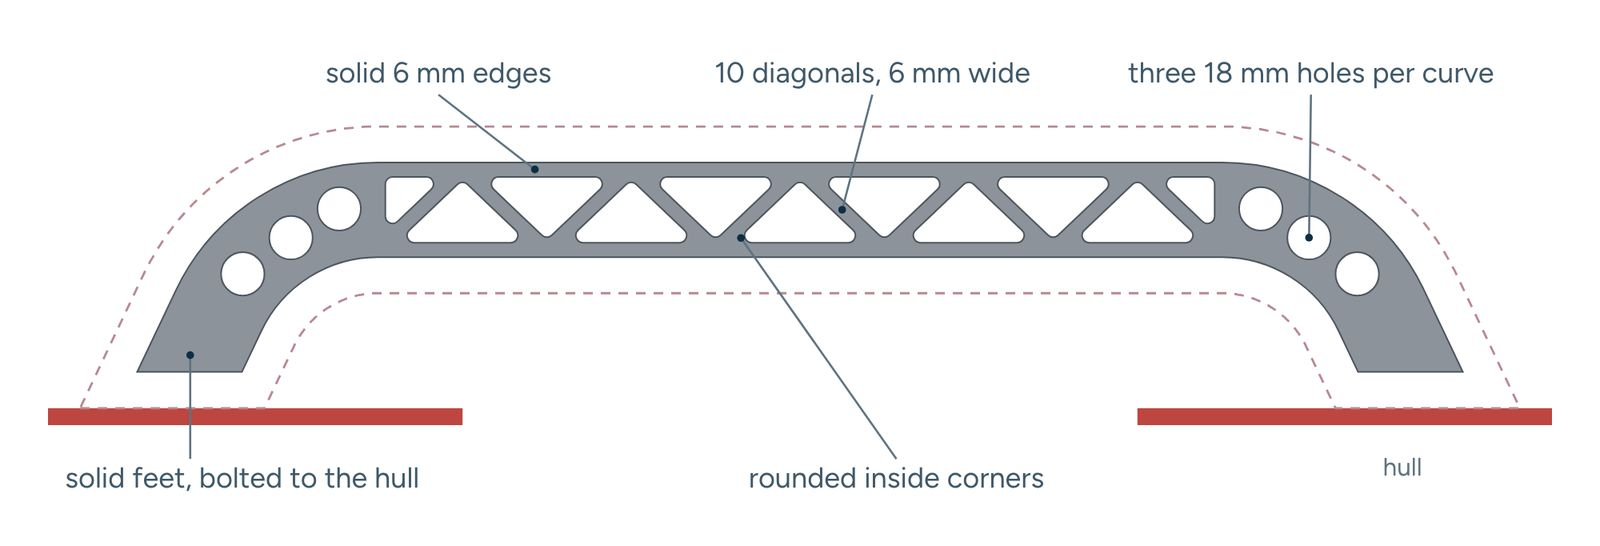
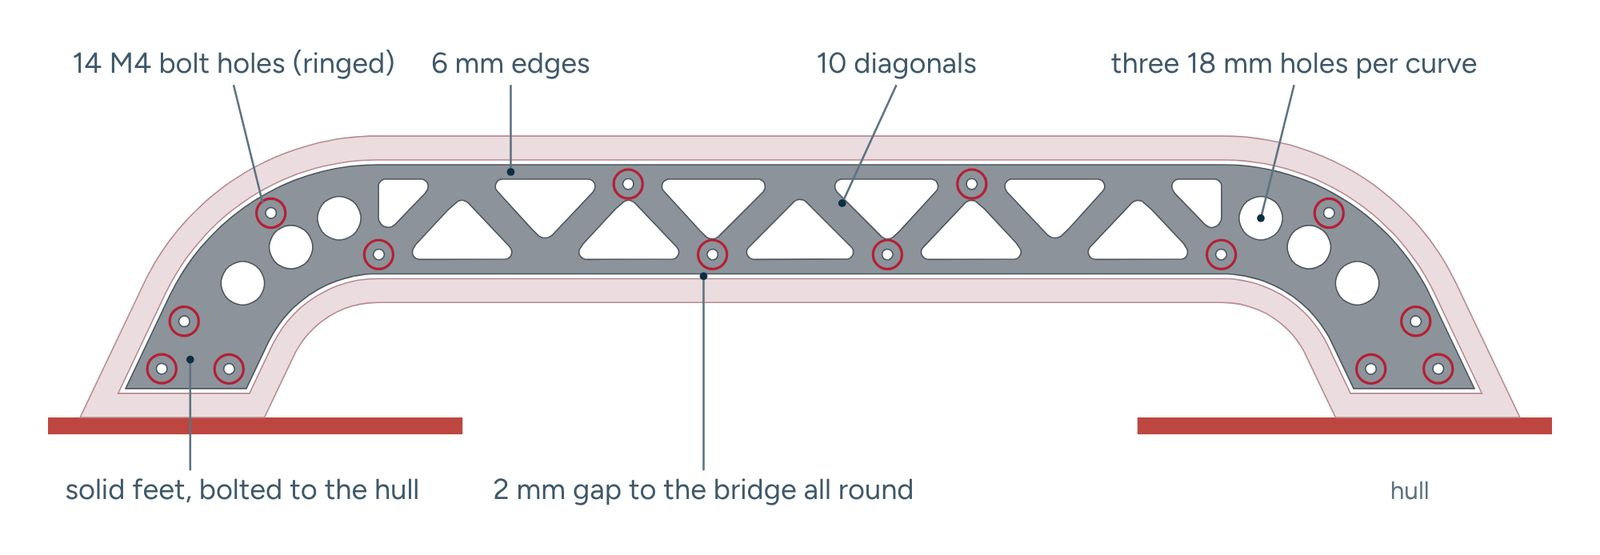
docs(updates): the truss at 45 mm with a 2 mm gap, and the 14 bridge bolts
This week's update described the 39 mm truss from the first sketch (243 g). The
CAD truss had grown to fill the bridge's inside, so the printed halves could not
slide over it; it is now 45 mm deep with a 2 mm gap all round, and carries the 14
M4 bolts that hold the bridge's front half on.

Redid the stress check on that shape, bolt holes included (6 mm edges, span and
curve holes 8 mm in, leg holes 10 mm in): highest stress 66 MPa, safety factor
about 4, 310 g against 449 g for a solid plate. New drawing and stress picture,
the cutaway and front views from the CAD, and a short section on the bolts.

Claude-Session: https://claude.ai/code/session_01MmpaibT2mUXrL1Wf9oaEZE

diff --git a/website/tools/build_images.py b/website/tools/build_images.py
@@ -190,7 +190,9 @@ UPDATES = {
     "upd-2026-11-27-pattern": "2026-11-27-pattern.png",     # bridge truss pattern, drawn to scale inside the bridge (2x render)
     "upd-2026-11-27-stress": "2026-11-27-stress.png",       # stress check of the truss, highest of five load cases (2x render)
     "upd-2026-11-27-optimizer": "2026-11-27-optimizer.png", # topology optimization of the truss at 40 % material (2x render)
-    "upd-2026-11-27-truss": "2026-11-27-truss.png",         # Matthew's SolidWorks truss (dark) inside the bridge (screenshot crop, upscaled to 1600)
+    "upd-2026-11-27-truss": "2026-11-27-truss.png",         # Matthew's SolidWorks truss (dark) inside the bridge, 2 mm gap and bolt holes (screenshot crop, upscaled to 1600)
+    "upd-2026-11-27-cutaway": "2026-11-27-cutaway.png",     # the catamaran with the bridge's middle cut away to show both trusses (screenshot crop, upscaled to 1600)
+    "upd-2026-11-27-front": "2026-11-27-front.png",         # the catamaran from the front: truss inside the bridge on both hulls (screenshot crop, upscaled to 1600)
     "upd-2026-11-27-boat": "2026-11-27-boat.png",           # Matthew's SolidWorks catamaran: bridge on both hulls, one lid on (screenshot crop, upscaled to 1600)
     "upd-2026-11-27-brackets": "2026-11-27-brackets.png",   # the bridge's foot over the aluminum brackets in the hull rim (screenshot crop, upscaled to 1600)
     "upd-2026-11-27-stern": "2026-11-27-stern.png",         # the arch from behind (screenshot crop, upscaled to 1600)

diff --git a/website/updates/2026-11-27.md b/website/updates/2026-11-27.md
@@ -6,7 +6,7 @@ Our bridge, the arch that joins the two hulls, is 3D printed. Printed plastic al
 
 ## What the trusses have to do
 
-Each truss is a flat plate cut from 1/4 inch (6.35 mm) 6061-T6 aluminum, curved like the bridge and 39 mm deep. Its two feet bolt to the hulls. We designed it for the loads a catamaran's bridge sees:
+Each truss is a flat plate cut from 1/4 inch (6.35 mm) 6061-T6 aluminum, curved like the bridge and 45 mm deep. Its two feet bolt to the hulls. We designed it for the loads a catamaran's bridge sees:
 
 - **Twisting.** When one hull meets a wave before the other, that hull is pushed up while the other is pushed down. At our design load, each truss takes about 270 N (about 60 lb) up at one foot and down at the other.
 - **Spreading or folding.** Waves and knocks push the hulls apart or together. We allowed 100 N (22 lb) pushing each hull in or out at each truss, about twice what we estimate a steep 20 cm wake can do.
@@ -26,14 +26,14 @@ It kept both edges solid and filled the straight middle with diagonals at about 
 
 ## The design
 
-We turned that into shapes a waterjet can cut. Ten diagonals, 6 mm wide, zig-zag between 6 mm edges, and every inside corner is rounded, because cracks start at sharp corners. The curved ends carry the most bending, so they keep their edges whole and lose only three 18 mm holes along their middle, where the metal carries the least. The legs and feet stay solid, because that's where the truss bolts to the hulls.
+We turned that into shapes a waterjet can cut. Ten diagonals, about 12 mm wide, zig-zag between 6 mm edges, and every inside corner is rounded, because cracks start at sharp corners. The curved ends carry the most bending, so they keep their edges whole and lose only three 18 mm holes along their middle, where the metal carries the least. The legs and feet stay solid, because that's where the truss bolts to the hulls.
 
-![The truss drawn to scale inside the printed bridge (dashed)](img/upd-2026-11-27-pattern-1600.jpg)
+![The truss drawn to scale inside the printed bridge (pink), with its 14 bolt holes ringed in red](img/upd-2026-11-27-pattern-1600.jpg)
 ![The same truss in our SolidWorks model: dark grey inside the light-grey bridge](img/upd-2026-11-27-truss-1600.jpg)
 
 ## Checking it
 
-A computer stress check (finite element analysis) of the final shape under all of these loads found the highest stress is 66 MPa, about a quarter of what it takes to bend this aluminum for good. That's a safety factor of about 4, above our target of 3. Each truss weighs 243 g, 37% less than a solid plate (385 g).
+A computer stress check (finite element analysis) of the final shape, with all of its bolt holes, under all of these loads found the highest stress is 66 MPa, next to one of the bolt holes. That's about a quarter of what it takes to bend this aluminum for good: a safety factor of about 4, above our target of 3. Each truss weighs about 310 g, 31% less than a solid plate (449 g).
 
 ![Stress in the truss, the highest of five load cases at each point](img/upd-2026-11-27-stress-1600.jpg)
 
@@ -44,6 +44,14 @@ Each truss foot bolts down through the hull's lid into an aluminum bracket. The 
 ![The bridge's feet over the aluminum brackets in the rim of a hull (the lid is hidden here)](img/upd-2026-11-27-brackets-1600.jpg)
 ![A corner of a hull lid from underneath: the outer lip keeps spray off, the groove holds the foam gasket, and the lower middle sits on the hull's rim](img/upd-2026-11-27-lid-1600.jpg)
 
+## Bolting the bridge on
+
+The printed bridge will split into front and back halves that slide over the trusses from either end and meet in the middle. Each truss is 2 mm smaller than the inside of the bridge all round. A print this big comes out a millimetre or two smaller than drawn, and without the gap the halves would jam.
+
+Fourteen M4 bolts (4 mm screws) hold the front half to the front truss, spread from one leg to the other: four across the straight middle, two where it meets the curves, two in the curves and six in the legs. Each sits 8 to 10 mm in from the truss's edge, close enough to the bridge's walls that the bridge can grow a short peg there for a brass threaded insert, melted into the plastic. We put them where the stress check showed the metal has room to spare, so they don't weaken the truss. The back half will be held to the front half by screws through tabs along the seam, so only the front truss gets bolts.
+
+![The boat from the front: the truss inside the bridge, with its bolt holes and the 2 mm gap to the bridge](img/upd-2026-11-27-front-1600.jpg)
+
 ## Next
 
-The printed bridge will split into front and back halves that slide over the trusses from either end, meet in the middle and bolt to them. Next we're designing that joint, and the bolted joints at the truss's feet.
+Next we're designing the bolted joints at the truss's feet.

diff --git a/website/UPDATES.md b/website/UPDATES.md
@@ -25,13 +25,13 @@ HOW WEEKLY UPDATES WORK (anyone on the team, or a Claude Code session)
 
 ## Week ending Nov 27, 2026
 
-This week we designed the aluminum trusses that hold the boat's two hulls together, and the brackets that fix them to the hulls. A truss is a frame of triangles that carries a lot of load for little weight, and two of them run through our 3D-printed bridge from one hull to the other. They stop the hulls twisting when one meets a wave before the other, and stop them spreading apart or folding in. A computer optimization showed where the metal does the most work. A stress check of the final design showed each truss is 37% lighter than a solid plate and can take about four times the worst load we expect.
+This week we designed the aluminum trusses that hold the boat's two hulls together, the brackets that fix them to the hulls, and the bolts that hold our 3D-printed bridge onto them. A truss is a frame of triangles that carries a lot of load for little weight, and two of them run through the bridge from one hull to the other. They stop the hulls twisting when one meets a wave before the other, and stop them spreading apart or folding in. A computer optimization showed where the metal does the most work. A stress check of the final design, bolt holes included, showed each truss is 31% lighter than a solid plate and can take about four times the worst load we expect.
 
-![Our catamaran in 3D (SolidWorks): the pink bridge arches from one red hull to the other. The near hull has its lid on, with Dr. Eams on its side.](img/upd-2026-11-27-boat-1600.jpg)
-![The truss in our SolidWorks model, dark grey inside the light-grey bridge: a zig-zag across the middle and three round holes in each curved end](img/upd-2026-11-27-truss-1600.jpg)
+![Our catamaran in 3D (SolidWorks), with the middle of the bridge cut away to show the two aluminum trusses inside it. Dr. Eams is on the near hull.](img/upd-2026-11-27-cutaway-1600.jpg)
+![The truss in our SolidWorks model, dark grey inside the light-grey bridge: a zig-zag across the middle, three round holes in each curved end, 14 small bolt holes and a 2 mm gap all round](img/upd-2026-11-27-truss-1600.jpg)
 ![Stress in the truss under the worst loads we expect: darker blue is higher, and the highest, 66 MPa, is about a quarter of what it takes to bend this aluminum for good](img/upd-2026-11-27-stress-1600.jpg)
 
-- Designed the two aluminum trusses inside the bridge, 243 g each and able to take about four times the worst loads we expect, and the brackets in the hull rims they bolt to. The printed bridge will split into front and back halves that slide over the trusses.
+- Designed the two aluminum trusses inside the bridge, about 310 g each and able to take about four times the worst loads we expect, the brackets in the hull rims they bolt to, and the 14 bolts that hold the printed bridge on. The bridge will split into front and back halves that slide over the trusses, with a 2 mm gap all round.
 
 ## Week ending Nov 6, 2026
 
